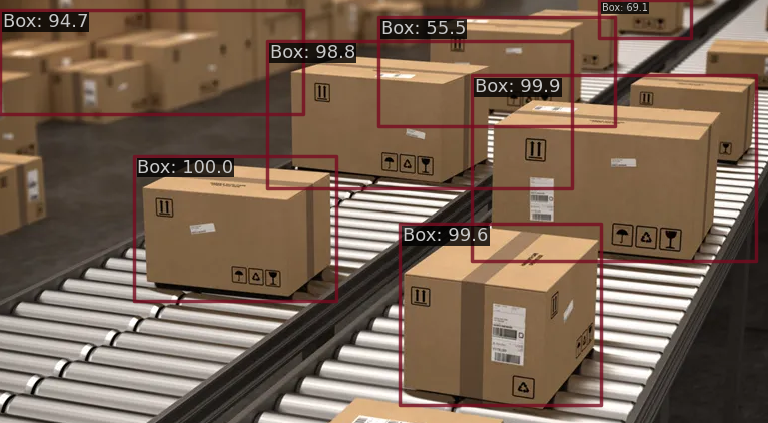
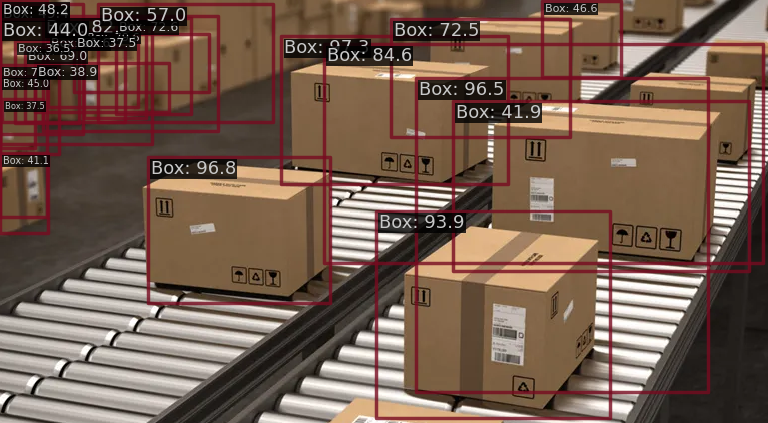
update resnest

Changed region(s): [[0.0, 0.0, 1.0, 1.0]]

diff --git a/configs/package/faster-rcnn_s101_fpn_syncbn-backbone+head_ms-range-1x_package.py b/configs/package/faster-rcnn_s101_fpn_syncbn-backbone+head_ms-range-1x_package.py
@@ -1,0 +1,53 @@
+# The new config inherits a base config to highlight the necessary modification
+_base_ = '../resnest/faster-rcnn_s101_fpn_syncbn-backbone+head_ms-range-1x_coco.py'
+
+# We also need to change the num_classes in head to match the dataset's annotation
+model = dict(
+    roi_head=dict(
+        bbox_head=dict(
+            num_classes=5,
+            )))
+
+# Modify dataset related settings
+dataset_type = 'COCODataset'
+classes = ('Box-package', 'Box', 'Box_broken', 'Open_package', 'Package')
+data_root = 'data/package/'
+palette = [(220, 20, 60), (119, 11, 32), (0, 0, 142), (0, 0, 230), (106, 0, 228)]
+
+train_dataloader = dict(
+    batch_size=8,
+    dataset=dict(
+        data_root=data_root,
+        ann_file='train2017/_annotations.coco.json',
+        data_prefix=dict(img='train2017/')
+    )
+)
+val_dataloader = dict(
+    batch_size=4,
+    dataset=dict(
+        data_root=data_root,
+        ann_file='val2017/_annotations.coco.json',
+        data_prefix=dict(img='val2017/')
+
+    )
+)
+test_dataloader = dict(
+    batch_size=1,
+    dataset=dict(
+        data_root=data_root,
+        ann_file='test2017/_annotations.coco.json',
+        data_prefix=dict(img='test2017/')
+    )
+)
+val_evaluator = dict(
+    ann_file=data_root + 'val2017/_annotations.coco.json'
+)
+test_evaluator = dict(
+    ann_file=data_root + 'test2017/_annotations.coco.json'
+)
+
+optim_wrapper = dict(type='AmpOptimWrapper', optimizer=dict(type='Adam', lr=0.0003, weight_decay=0.0001), accumulative_counts=2)
+train_cfg = dict(max_epochs=120, val_interval=10)
+default_hooks = dict(checkpoint=dict(type='CheckpointHook', interval=15))
+# We can use the pre-trained Mask RCNN model to obtain higher performance
+load_from = './model/resnest101_d2-f3b931b2.pth'

diff --git a/demo/image_demo.py b/demo/image_demo.py
@@ -23,7 +23,7 @@ Example:
 """
 
 from argparse import ArgumentParser
-
+import time
 from mmengine.logging import print_log
 
 from mmdet.apis import DetInferencer
@@ -97,16 +97,19 @@ def parse_args():
 
 
 def main():
+
     init_args, call_args = parse_args()
     # TODO: Video and Webcam are currently not supported and
     #  may consume too much memory if your input folder has a lot of images.
     #  We will be optimized later.
     inferencer = DetInferencer(**init_args)
+    timer = time.time()
     inferencer(**call_args)
 
     if call_args['out_dir'] != '' and not (call_args['no_save_vis']
                                            and call_args['no_save_pred']):
         print_log(f'results have been saved at {call_args["out_dir"]}')
+    print(time.time() - timer)
 
 
 if __name__ == '__main__':
